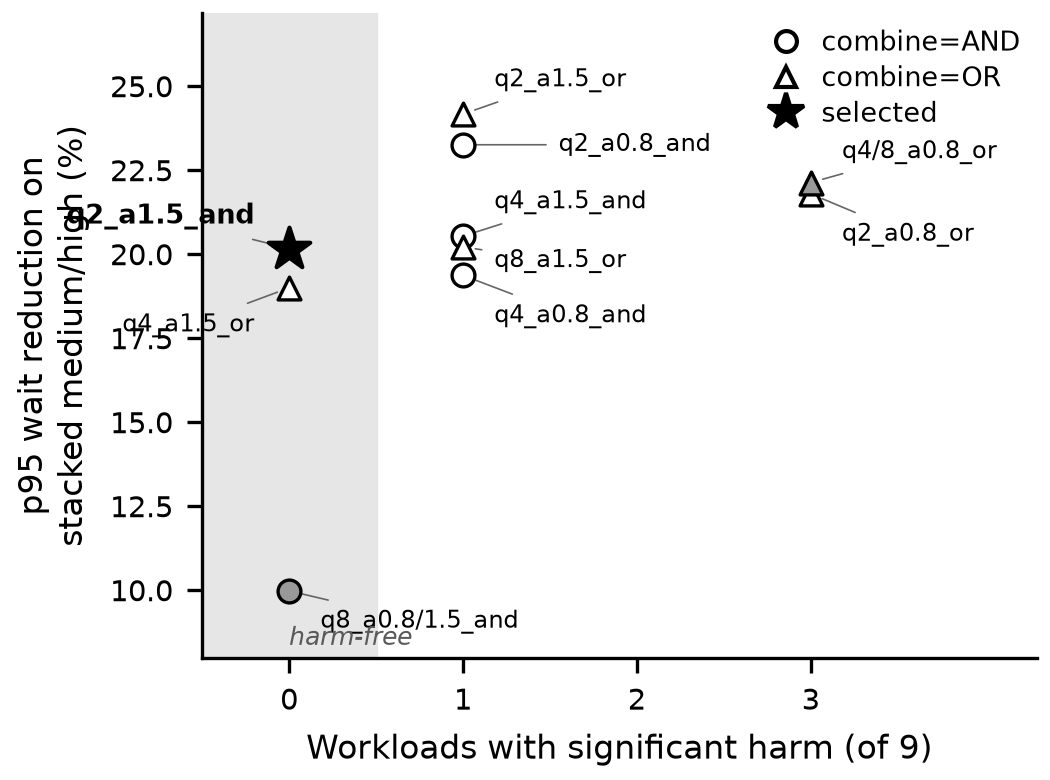
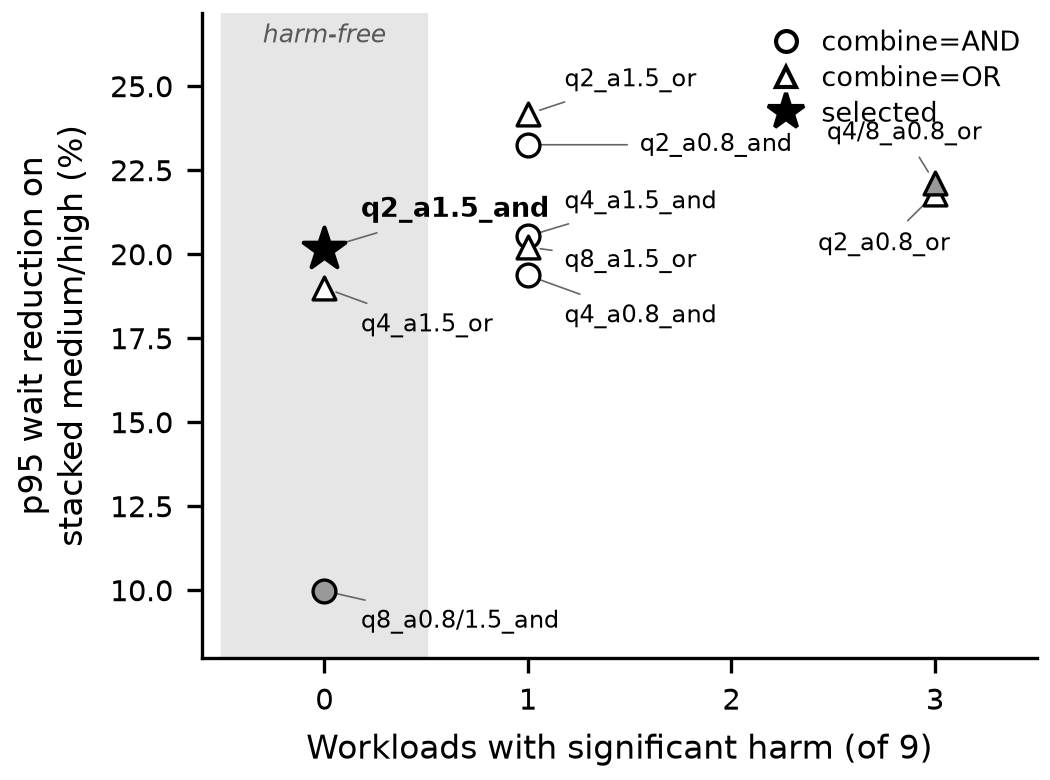
tradeoff figure: fix label clipping, harm-free band position, xlim, and remaining label collisions at x=0 and x=3

diff --git a/final_results/1_calibration_grid/task6_threshold_grid_tradeoff.py b/final_results/1_calibration_grid/task6_threshold_grid_tradeoff.py
@@ -181,16 +181,16 @@ def make_plot(points):
     # by hand after inspecting the rendered plot (recipe fallback for no
     # adjustText: 12 points is few enough to place by hand and verify).
     LABEL_OFFSETS = {
-        "q2_a1.5_and":            (-0.20,  0.55, "right", "bottom"),  # selected, star
-        "q4_a1.5_or":             (-0.20, -0.75, "right", "top"),
+        "q2_a1.5_and":            ( 0.18,  0.75, "left",  "bottom"),  # selected, star -- right of marker
+        "q4_a1.5_or":             ( 0.18, -0.75, "left",  "top"),     # right of marker, clear of 17.5 ytick
         "q8_a0.8_and|q8_a1.5_and": (0.18, -0.55, "left",  "top"),
         "q2_a0.8_and":            (0.55,  0.00, "left",  "center"),
         "q2_a1.5_or":             (0.18,  0.65, "left",  "bottom"),
         "q4_a0.8_and":            (0.18, -0.85, "left",  "top"),
         "q4_a1.5_and":            (0.18,  0.65, "left",  "bottom"),
         "q8_a1.5_or":             (0.18, -0.05, "left",  "top"),
-        "q2_a0.8_or":             (0.18, -0.85, "left",  "top"),
-        "q4_a0.8_or|q8_a0.8_or":  (0.18,  0.55, "left",  "bottom"),
+        "q2_a0.8_or":             (-0.25, -1.495, "center", "center"),  # manual: text centered ~(2.75, 20.3), below marker
+        "q4_a0.8_or|q8_a0.8_or":  (-0.15,  1.472, "center", "center"),  # manual: text centered ~(2.85, 23.6), above marker -- shifted right, collided with q2_a0.8_and at x=2.75
     }
 
     for grp in groups.values():
@@ -219,13 +219,14 @@ def make_plot(points):
 
     ax.set_xlabel("Workloads with significant harm (of 9)")
     ax.set_ylabel("p95 wait reduction on\nstacked medium/high (%)")
-    ax.set_xlim(-0.5, max_x + 1.3)
+    ax.set_xlim(-0.6, 3.5)
     ax.set_xticks(range(0, max_x + 1))
     ymin = min(p["benefit_score"] for p in points) - 2
     ymax = max(p["benefit_score"] for p in points) + 3
     ax.set_ylim(ymin, ymax)
     ax.axvspan(-0.5, 0.5, color="0.90", zorder=0)
-    ax.text(0, ymin + 0.4, "harm-free", fontsize=6, style="italic", color="0.35", ha="left")
+    ax.text(0, ymax - 0.3, "harm-free", fontsize=6, style="italic", color="0.35",
+            ha="center", va="top")
 
     legend_elems = [
         plt.Line2D([0], [0], marker="o", color="w", markerfacecolor="white",
